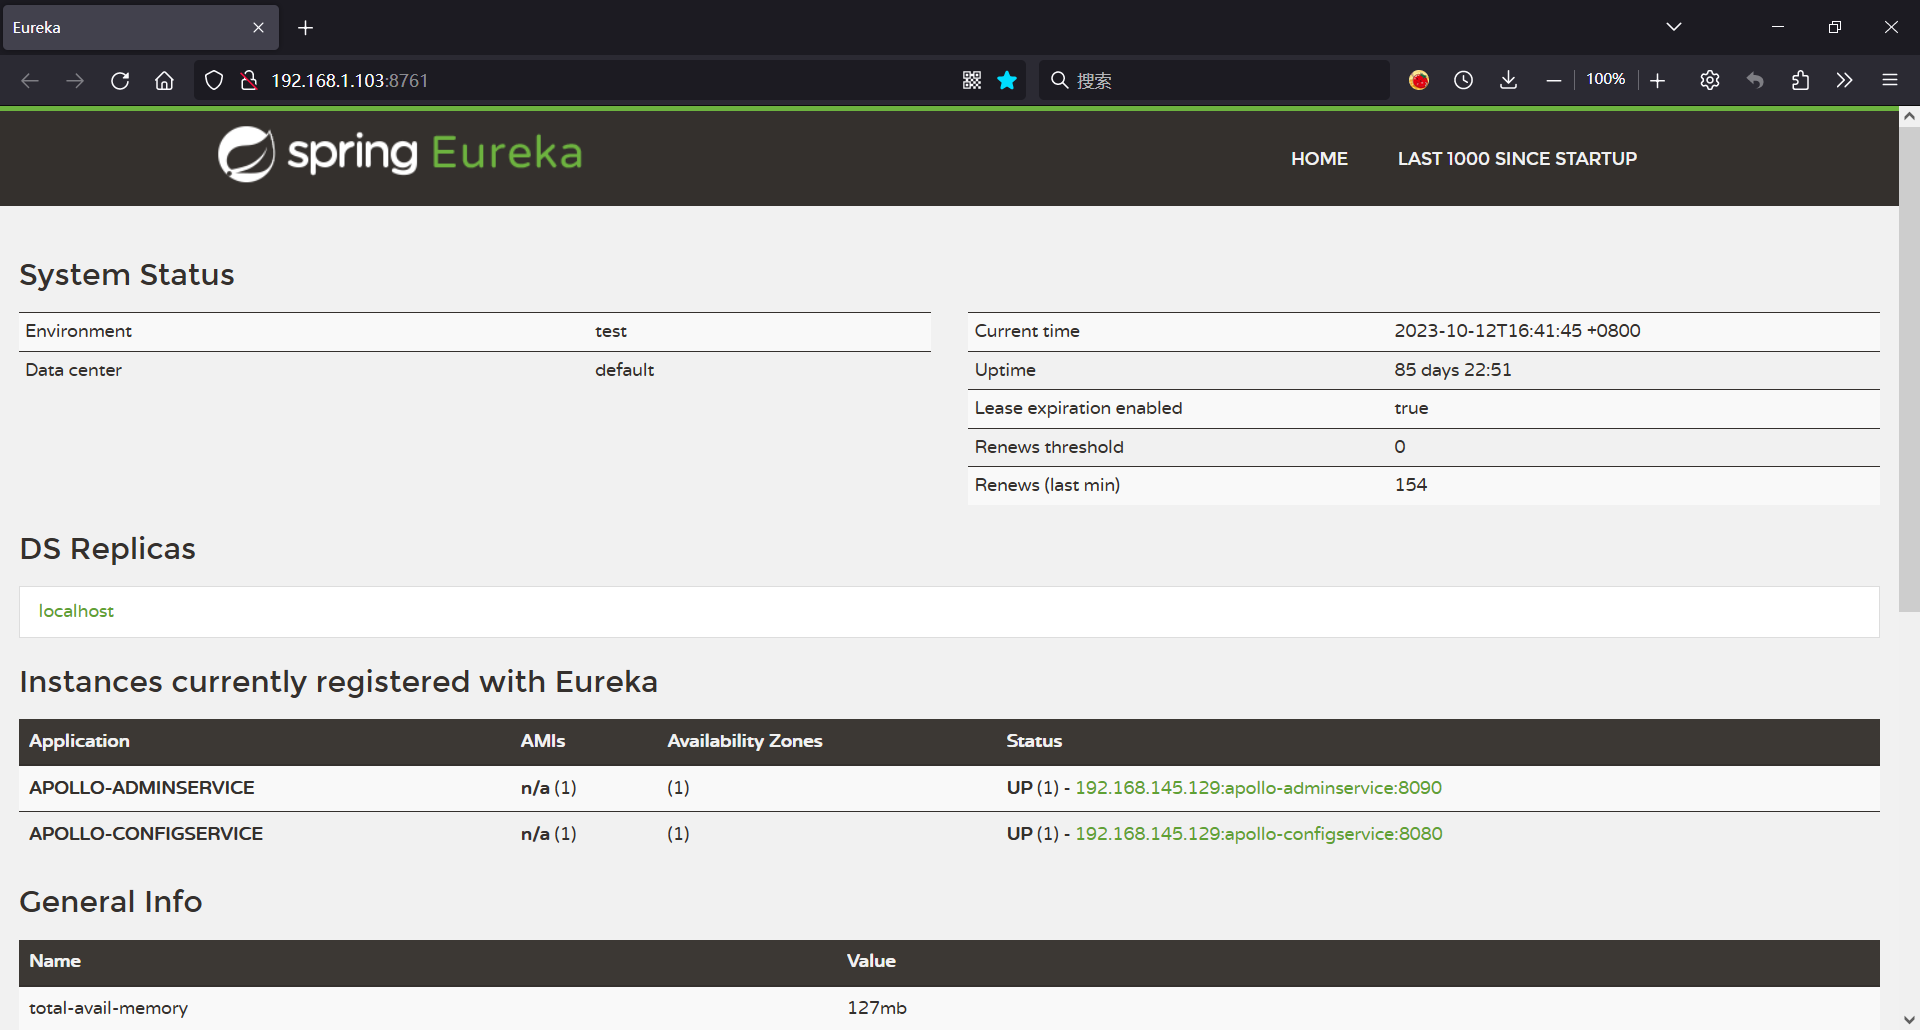
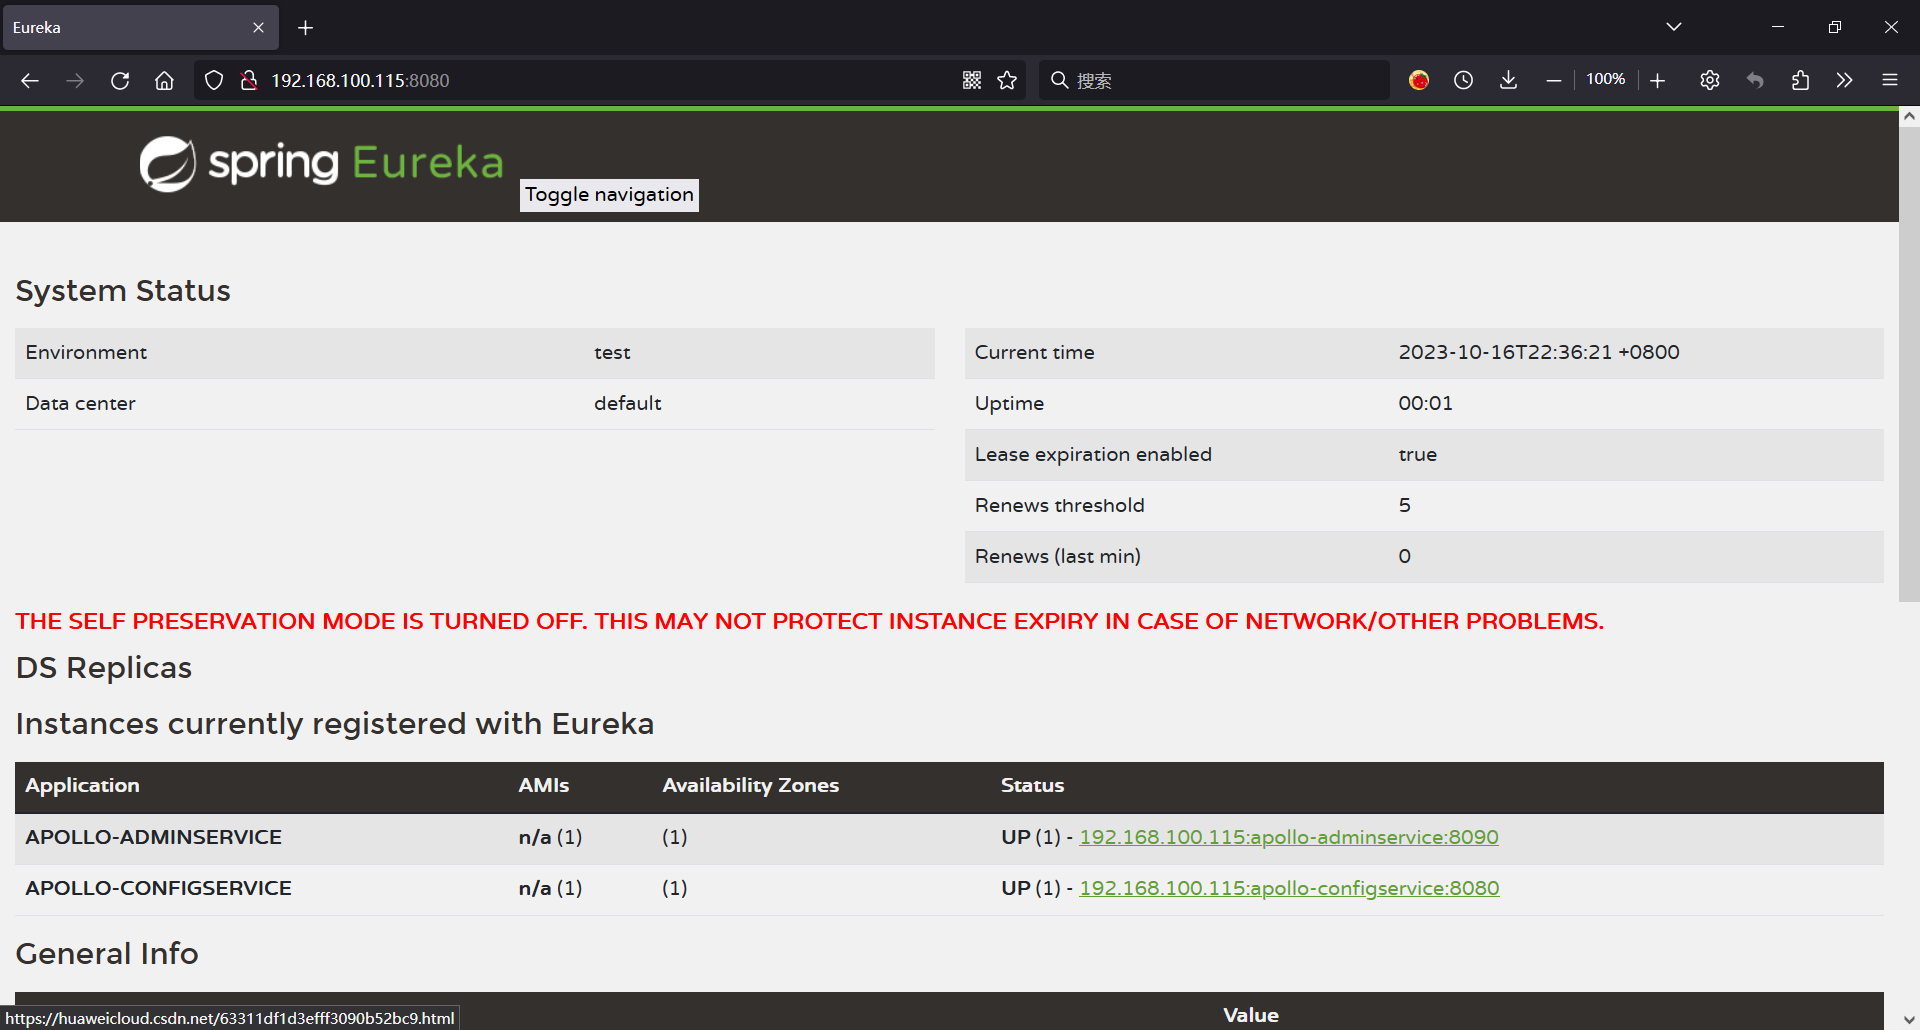
小调整。

diff --git a/blog/config-center/apollo/apollo-install-by-docker.md b/blog/config-center/apollo/apollo-install-by-docker.md
@@ -71,10 +71,13 @@
 
 注：以上脚本，会自动创建database和表，如图：
 
+#### 图1：
 ![数据库截图1](img/database-screenshot1.png)
 
+#### 图2：
 ![数据库截图2](img/database-screenshot2.png)
 
+#### 图3：
 ![数据库截图3](img/database-screenshot3.png)
 
 
